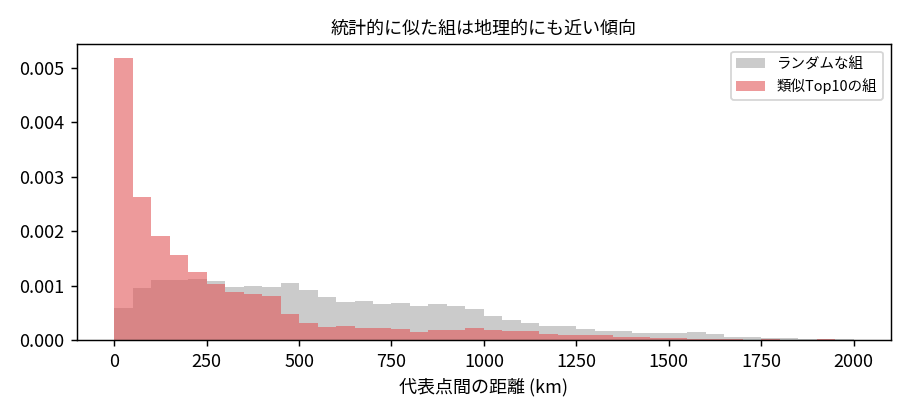
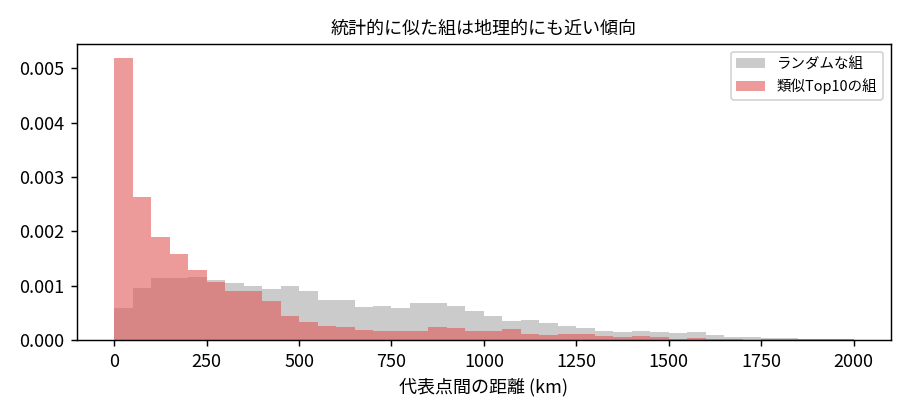
Report: use great-circle distances for geographic proximity stats

diff --git a/scripts/09_report_figures.py b/scripts/09_report_figures.py
@@ -100,12 +100,22 @@ plt.tight_layout(); plt.savefig(os.path.join(FIG, "top10_domain_share.png")); pl
 
 # 5) 地理的な近さ
 geo = gpd.read_file(os.path.join(ROOT, "data", "geo", "muni_simplified.geojson")).to_crs(6933)
-cen = {c: (p.x, p.y) for c, p in zip(geo.code, geo.geometry.representative_point())}
-XY = np.array([cen[c] for c in codes]); idx = {c: i for i, c in enumerate(codes)}
-nd = np.array([np.linalg.norm(XY[idx[a["code"]]] - XY[idx[n["code"]]]) / 1000 for a in inc for n in a["neighbors"]])
+rp_ll = gpd.GeoSeries(geo.geometry.representative_point(), crs=geo.crs).to_crs(4326)
+cen = {c: (p.x, p.y) for c, p in zip(geo.code, rp_ll)}
+LL = np.radians(np.array([cen[c] for c in codes])); idx = {c: i for i, c in enumerate(codes)}
+
+
+def gc_km(i, j):
+    (l1, p1), (l2, p2) = LL[i].T, LL[j].T
+    h = np.sin((p2 - p1) / 2) ** 2 + np.cos(p1) * np.cos(p2) * np.sin((l2 - l1) / 2) ** 2
+    return 2 * 6371.0088 * np.arcsin(np.sqrt(h))
+
+
+pi = np.array([(idx[a["code"]], idx[n["code"]]) for a in inc for n in a["neighbors"]])
+nd = gc_km(pi[:, 0], pi[:, 1])
 rng = np.random.default_rng(0)
 rp = rng.integers(0, len(codes), (20000, 2)); rp = rp[rp[:, 0] != rp[:, 1]]
-rd = np.linalg.norm(XY[rp[:, 0]] - XY[rp[:, 1]], axis=1) / 1000
+rd = gc_km(rp[:, 0], rp[:, 1])
 same = np.mean([np.mean([by[n["code"]]["pref"] == a["pref"] for n in a["neighbors"]]) for a in inc])
 pc = Counter(a["pref"] for a in inc); N = len(inc)
 stats["geography"] = {"top10_same_pref": float(same), "random_same_pref": sum(c * (c - 1) for c in pc.values()) / (N * (N - 1)),

diff --git a/docs/report.md b/docs/report.md
@@ -127,7 +127,7 @@ Web マップで Top10 の行をクリックすると、この内訳を組ごと
 ![地理的距離](figures/geo_distance.png)
 
 - **数値**
-  - 類似 Top10 の組の距離の中央値は 160km で、ランダムな組（505km）よりずっと近い結果でした。
+  - 類似 Top10 の組の距離の中央値は 158km で、ランダムな組（502km）よりずっと近い結果でした。
   - 100km 以内にある組は 39% です（ランダムなら 8%）。
   - 同じ都道府県の組は 28% です（ランダムなら 3%）。
 - **解釈**
